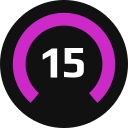
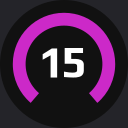
Give level badges an opaque #242429 backdrop
The PNGs were transparent, so the badges picked up whatever sat behind them
and showed white in Discord's light theme and in image viewers.

diff --git a/README.md b/README.md
@@ -52,7 +52,8 @@ Two things worth knowing:
 ## Level badges
 
 `assets/faceit/` holds skill-level badges 1–20, as `.svg` (source) and `.png` (what Discord
-embeds actually display — Discord does not render SVG).
+embeds actually display — Discord does not render SVG). The badges sit on an opaque `#242429`
+backdrop rather than transparency, so they look the same in Discord's light and dark themes.
 
 FACEIT's own scale stops at level 10 (2001+ ELO). Levels 11–20 subdivide everything above
 that, using the thresholds and artwork of the **FACEIT Forecast** browser extension, so a
